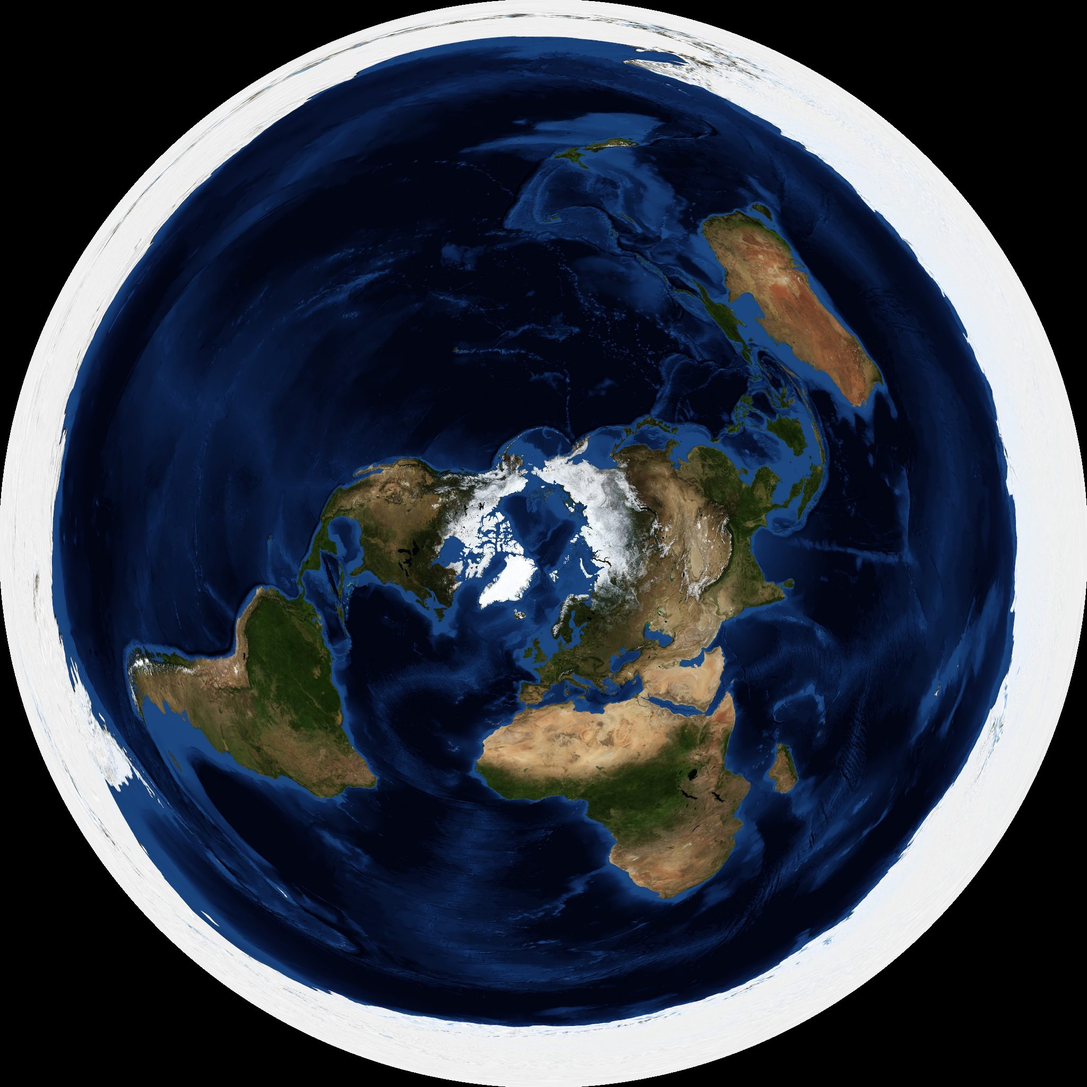
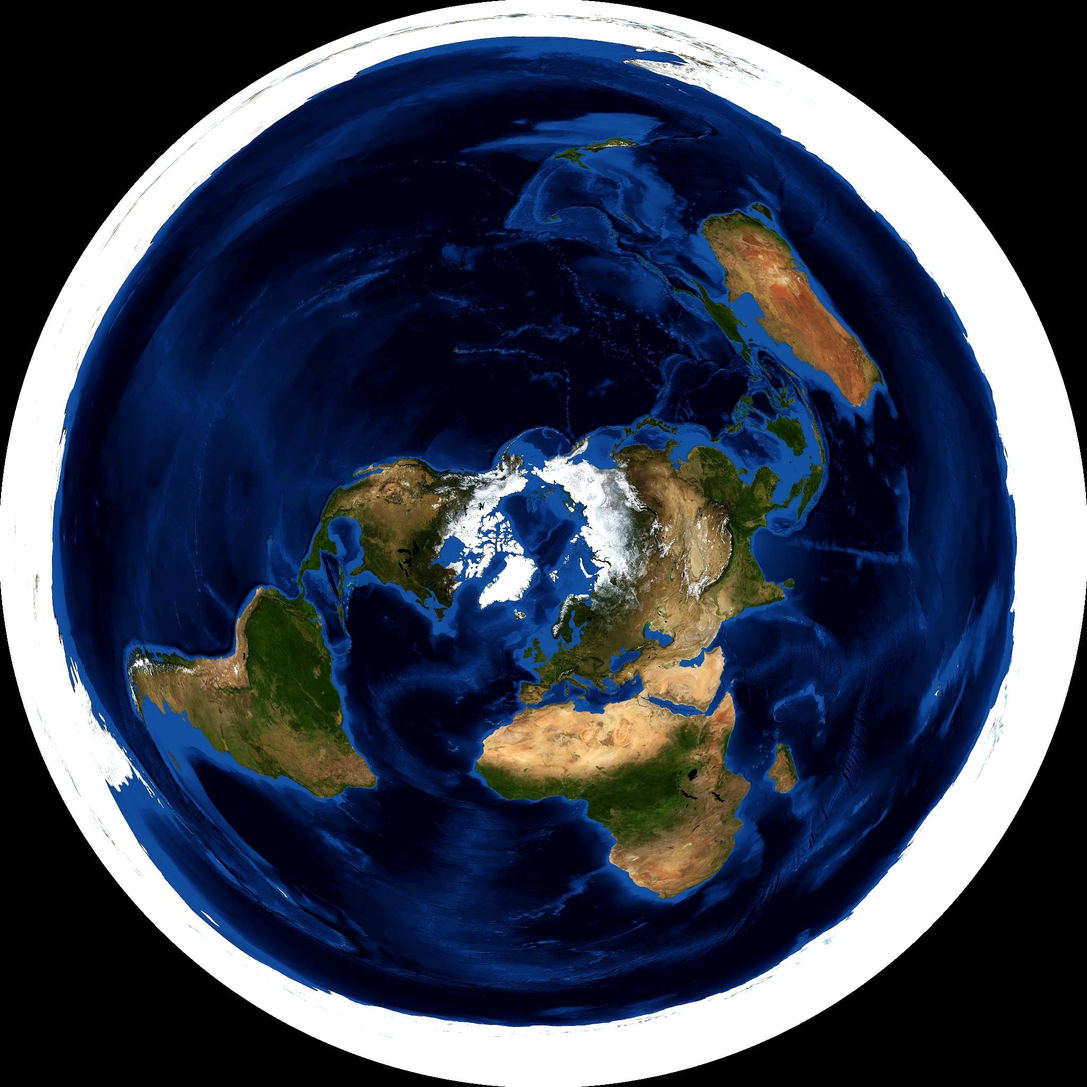
Horizonte livre, Terra mais nítida, ícones de avião e satélite, radar com reservas
Horizonte logo acima dos controles e árvores mais baixas; foto da Terra mais clara e nítida com noite por sombreamento (continentes continuam visíveis) e domo só na vista inclinada; ícones de avião e satélite, satélites e aviões elevados no disco; radar tenta adsb.fi, adsb.lol, airplanes.live e OpenSky, com proxy opcional (tools/proxy-avioes.js).

Claude-Session: https://claude.ai/code/session_01YPPPxVRs66xufPJ9dKZSic

diff --git a/index.html b/index.html
@@ -67,11 +67,12 @@ dt{color:var(--mute)}dd{margin:0;text-align:right;font-variant-numeric:tabular-n
 input[type=datetime-local]{font:16px Inter,sans-serif;width:100%;min-height:46px;background:#0f1d25;color:var(--ink);border:1px solid var(--line);border-radius:12px;padding:0 12px;color-scheme:dark}
 .btn{font:600 15px Inter,sans-serif;min-height:46px;border-radius:12px;border:1px solid var(--line);background:#12232c;color:var(--ink);padding:0 16px;cursor:pointer}
 .btn.p{background:var(--sun);color:#1b1404;border-color:var(--sun)}
-select,input[type=number],input[type=search]{font:16px Inter,sans-serif;width:100%;min-height:46px;background:#0f1d25;color:var(--ink);border:1px solid var(--line);border-radius:12px;padding:0 12px}
+select,input[type=number],input[type=search],input[type=url]{font:16px Inter,sans-serif;width:100%;min-height:46px;background:#0f1d25;color:var(--ink);border:1px solid var(--line);border-radius:12px;padding:0 12px}
 .two{display:grid;grid-template-columns:minmax(0,1fr) minmax(0,1fr);gap:8px}
 label.f{display:grid;gap:4px;font-size:13px;color:var(--mute)}
 input[type=range]{width:100%;accent-color:var(--model);height:32px}
 .small{font-size:13px;color:var(--mute);margin:0}
+.adv{display:grid;gap:8px;border:1px solid var(--line);border-radius:12px;padding:10px 12px}.adv summary{cursor:pointer;font-size:14px;min-height:28px}.adv[open]{gap:8px}.adv>*+*{margin-top:8px}
 .res{display:grid;gap:6px;max-height:38vh;overflow-y:auto}
 .ri{display:flex;justify-content:space-between;align-items:center;gap:12px;text-align:left;min-height:46px;padding:8px 12px;border-radius:10px;background:#0f1d25;border:1px solid var(--line);color:var(--ink);font:15px Inter,sans-serif;cursor:pointer}
 .ri b{font-weight:600}.ri span{color:var(--mute);font-size:13px;text-align:right}
@@ -150,6 +151,11 @@ input[type=range]{width:100%;accent-color:var(--model);height:32px}
     </div>
     <label class="f"><span>Altura do Sol e da Lua no modelo: <b id="hVal" style="color:var(--ink)">5.000 km</b></span><input type="range" id="height" min="500" max="20000" step="100" value="5000"></label>
     <p class="small">Os marcadores coral mostram onde um Sol e uma Lua locais, nessa altura acima do disco, apareceriam do seu ponto. Os dourados e brancos são o céu observado.</p>
+    <details class="adv"><summary>Radar de aviões (avançado)</summary>
+      <p class="small">O app tenta adsb.fi, adsb.lol, airplanes.live e OpenSky. Se todos bloquearem o navegador, cole aqui o endereço de um proxy próprio (veja tools/proxy-avioes.js no repositório).</p>
+      <input type="url" id="proxy" placeholder="https://seu-proxy.workers.dev" autocomplete="off" inputmode="url">
+      <p class="small" id="airMsg"></p>
+    </details>
     <button class="btn" id="sheetClose">Fechar</button>
   </div>
   <div class="welcome" id="welcome">
@@ -250,7 +256,7 @@ function camSensor(){const a=(sens.alpha+sens.cal)*D,b=sens.beta*D,g=sens.gamma*
  return{f:[-dz[0],-dz[1],-dz[2]],r:[c*dx[0]-s*dy[0],c*dx[1]-s*dy[1],c*dx[2]-s*dy[2]],u:[s*dx[0]+c*dy[0],s*dx[1]+c*dy[1],s*dx[2]+c*dy[2]]}}
 function updateCam(){const t=st.sensors&&sens.got?camSensor():camManual();
  if(st.sensors&&sens.got){const k=0.2,mix=(a,b)=>a.map((v,i)=>v+(b[i]-v)*k);let f=nrm(mix(cam.f,t.f)),r=mix(cam.r,t.r);r=nrm(r.map((v,i)=>v-dot(r,f)*f[i]));cam={f,r,u:cross(r,f)}}else cam=t;
- F=(Math.max(W,Hh)/2)/Math.tan(st.fov*D/2);PY=Hh/2+Hh*(Hh>W?0.27:0.16)}
+ F=(Math.max(W,Hh)/2)/Math.tan(st.fov*D/2);PY=Hh>W?Hh-Math.max(150,Hh*0.17):Hh*0.8}
 function proj(v){const z=dot(v,cam.f),x=dot(v,cam.r),y=dot(v,cam.u);return z>0.02?{ok:true,sx:W/2+F*x/z,sy:PY-F*y/z,x,y,z}:{ok:false,x,y,z}}
 const onScreen=p=>p.ok&&p.sx>-40&&p.sx<W+40&&p.sy>-40&&p.sy<Hh+40;
 // ---------- Cálculo dos objetos ----------
@@ -298,7 +304,7 @@ function drawArt(C,upE,night){if(!ART.list.length)return;const fade=0.24*clamp((
  ctx.restore();ctx.setTransform(dpr,0,0,dpr,0,0)}
 // ---------- Paisagem: colinas e árvores ----------
 const LANDN=1440,mkRng=seed=>{let s=seed;return()=>(s=(s*16807)%2147483647)/2147483647};
-const FARP=(()=>{const R=mkRng(98765),h=new Float32Array(LANDN),p=[0,1,2].map(()=>R()*6.3);for(let i=0;i<LANDN;i++){const a=i/LANDN*2*Math.PI;h[i]=Math.max(0.3,1.3+0.9*Math.sin(a*3+p[0])+0.55*Math.sin(a*7+p[1])+0.22*Math.sin(a*17+p[2]))}return h})();
+const FARP=(()=>{const R=mkRng(98765),h=new Float32Array(LANDN),p=[0,1,2].map(()=>R()*6.3);for(let i=0;i<LANDN;i++){const a=i/LANDN*2*Math.PI;h[i]=Math.max(0.2,0.7+0.45*Math.sin(a*3+p[0])+0.28*Math.sin(a*7+p[1])+0.12*Math.sin(a*17+p[2]))}return h})();
 const LANDP=(()=>{const R=mkRng(1234567),n=LANDN,h=new Float32Array(n),p=[R()*6.3,R()*6.3];
  for(let i=0;i<n;i++){const a=i/n*2*Math.PI;h[i]=Math.max(0,0.22+0.18*Math.sin(a*4+p[0])+0.1*Math.sin(a*11+p[1]))}
  const bump=(c,cy,r)=>{const w=Math.ceil(r*4);for(let k=-w;k<=w;k++){const dx=k/4;if(Math.abs(dx)>r)continue;const i=((Math.round(c)+k)%n+n)%n;h[i]=Math.max(h[i],cy+Math.sqrt(r*r-dx*dx))}};
@@ -306,7 +312,7 @@ const LANDP=(()=>{const R=mkRng(1234567),n=LANDN,h=new Float32Array(n),p=[R()*6.
  const pine=(c,ht,wd)=>{const w=Math.round(wd*4);for(let k=-w;k<=w;k++){const i=((c+k)%n+n)%n,x=Math.abs(k)/w;h[i]=Math.max(h[i],ht*Math.pow(1-x,1.1)*(1+0.1*Math.sin(k*2.3)))}};
  for(let g=0;g<11;g++){const cc=R()*n,span=(6+R()*30)*4,cnt=2+Math.round(span/12);for(let t=0;t<cnt;t++){const c=Math.round(cc+(R()*2-1)*span),ht=1.8+R()*3.4;if(R()<0.18)pine(c,ht*1.2,0.6+R()*0.6);else broad(c,ht,1+R()*1.6)}}
  for(let t=0;t<18;t++){const c=Math.round(R()*n);if(R()<0.6)broad(c,0.6+R()*1,0.6+R()*0.8);else broad(c,2+R()*2.5,1.2+R()*1.4)}
- const out=new Float32Array(n);for(let i=0;i<n;i++){let m=h[i];for(let k=-10;k<=10;k++){const v=h[((i+k)%n+n)%n]-2.4*Math.abs(k)/4;if(v>m)m=v}out[i]=m>0.6?m+(R()-0.5)*0.09:m}return out})();
+ const out=new Float32Array(n);for(let i=0;i<n;i++){let m=h[i];for(let k=-10;k<=10;k++){const v=h[((i+k)%n+n)%n]-2.4*Math.abs(k)/4;if(v>m)m=v}out[i]=(m>0.6?m+(R()-0.5)*0.09:m)*0.5}return out})();
 const toV=P=>{const a=[];for(let i=0;i<=LANDN;i++){const k=i%LANDN;a.push(enu(P[k],k*360/LANDN))}return a};
 const LANDV=toV(LANDP),FARV=toV(FARP);
 function drawLandscape(V,col){const step=8;ctx.fillStyle=col;ctx.beginPath();
@@ -474,19 +480,20 @@ function drawDisc(o){discInit();domeInit();if(dv.tiltT!=null){dv.tilt+=(dv.tiltT
  if(lift>0.05){ctx.fillStyle="#08141a";ctx.beginPath();ctx.ellipse(g.cx,g.cy+g.R*0.05*lift,g.R,g.R*dv.tilt,dv.rot*0,0,7);ctx.fill()}
  // oceano, terra, desertos e gelo
  const photo=dv.real&&ready(dv.imgDay);
- if(photo){dM(g);ctx.save();ctx.beginPath();ctx.arc(0,0,1,0,7);ctx.clip();ctx.imageSmoothingEnabled=true;ctx.drawImage(dv.imgDay,-1,-1,2,2);ctx.restore()}
+ if(photo){dM(g);ctx.save();ctx.beginPath();ctx.arc(0,0,1,0,7);ctx.clip();ctx.imageSmoothingEnabled=true;ctx.imageSmoothingQuality="high";ctx.drawImage(dv.imgDay,-1,-1,2,2);ctx.restore()}
  else{dM(g);const oc=ctx.createRadialGradient(0,0,0,0,0,1);oc.addColorStop(0,"#164f78");oc.addColorStop(1,"#0c3350");ctx.fillStyle=oc;ctx.beginPath();ctx.arc(0,0,1,0,7);ctx.fill();
  const COL=["rgba(150,200,240,.2)","#5aa865","#eef6f8","#cdb57e"],B=[[],[],[],[]],sz=0.9*2/dv.N;for(const p of dv.dots)B[p.t].push(p);
  B.forEach((arr,t)=>{ctx.fillStyle=COL[t];ctx.beginPath();const z=t?sz:sz*0.45;for(const p of arr)ctx.rect(p.u-z/2,p.v-z/2,z,z);ctx.fill()})}
  // noite por cima das cores
- if(dv.light){const dt=dv.img.data,mk=dv.mimg.data,dark=photo?228:170;for(let k=0;k<dv.OP.length;k++){const p=dv.OP[k],q=k*4;if(!p){dt[q+3]=0;mk[q+3]=0;continue}const a=altOf(p[0],p[1],sp),f=a>-0.83?0:Math.min(1,(-a+0.83)/12);dt[q]=3;dt[q+1]=8;dt[q+2]=22;dt[q+3]=f*dark;mk[q]=mk[q+1]=mk[q+2]=255;mk[q+3]=f*255}
-  dv.octx.putImageData(dv.img,0,0);dM(g);ctx.imageSmoothingEnabled=true;ctx.drawImage(dv.off,-1,-1,2,2);
+ if(dv.light){const dt=dv.img.data,mk=dv.mimg.data;for(let k=0;k<dv.OP.length;k++){const p=dv.OP[k],q=k*4;if(!p){dt[q+3]=0;mk[q+3]=0;continue}const a=altOf(p[0],p[1],sp),f=a>0.5?0:Math.min(1,(0.5-a)/10);
+   if(photo){dt[q]=255-f*190;dt[q+1]=255-f*175;dt[q+2]=255-f*140;dt[q+3]=255}else{dt[q]=3;dt[q+1]=8;dt[q+2]=22;dt[q+3]=f*170}mk[q]=mk[q+1]=mk[q+2]=255;mk[q+3]=f*255}
+  dv.octx.putImageData(dv.img,0,0);dM(g);ctx.save();ctx.beginPath();ctx.arc(0,0,1,0,7);ctx.clip();ctx.imageSmoothingEnabled=true;if(photo)ctx.globalCompositeOperation="multiply";ctx.drawImage(dv.off,-1,-1,2,2);ctx.restore();
   if(photo&&ready(dv.imgNight)){if(dv.fr++%3===0){dv.mctx2.putImageData(dv.mimg,0,0);const x=dv.nlx;x.globalCompositeOperation="source-over";x.clearRect(0,0,1024,1024);x.drawImage(dv.imgNight,0,0,1024,1024);x.globalCompositeOperation="destination-in";x.imageSmoothingEnabled=true;x.drawImage(dv.mask,0,0,1024,1024)}
-   dM(g);ctx.save();ctx.globalCompositeOperation="lighter";ctx.globalAlpha=0.9;ctx.drawImage(dv.nl,-1,-1,2,2);ctx.restore()}}
+   dM(g);ctx.save();ctx.globalCompositeOperation="lighter";ctx.globalAlpha=0.85;ctx.drawImage(dv.nl,-1,-1,2,2);ctx.restore()}}
  // borda de gelo
  dM(g);ctx.beginPath();ctx.arc(0,0,1,0,7);dS();ctx.strokeStyle="rgba(240,248,250,.95)";ctx.lineWidth=2.5;ctx.stroke();
- dCircle(g,66.56,0.8,"rgba(160,230,220,.35)",[3,5]);dCircle(g,23.44,1,"rgba(160,230,220,.75)",[5,4]);dCircle(g,0,1.2,"rgba(255,255,255,.7)");dCircle(g,-23.44,1,"rgba(160,230,220,.75)",[5,4]);
- if(dv.tilt>0.8&&dv.zoom<2.5){dLabel(g,23.44,"CÂNCER","#bff0e8");dLabel(g,0,"EQUADOR","#ffffff");dLabel(g,-23.44,"CAPRICÓRNIO","#bff0e8")}
+ const lk=photo?0.55:1;dCircle(g,66.56,0.7,`rgba(160,230,220,${0.3*lk})`,[3,5]);dCircle(g,23.44,0.9,`rgba(160,230,220,${0.7*lk})`,[5,4]);dCircle(g,0,1,`rgba(255,255,255,${0.65*lk})`);dCircle(g,-23.44,0.9,`rgba(160,230,220,${0.7*lk})`,[5,4]);
+ if(!photo&&dv.tilt>0.8&&dv.zoom<2.5){dLabel(g,23.44,"CÂNCER","#bff0e8");dLabel(g,0,"EQUADOR","#ffffff");dLabel(g,-23.44,"CAPRICÓRNIO","#bff0e8")}
  dCircle(g,sp.lat,1.2,"rgba(255,207,115,.6)",[1,4]);
  if(dv.light){dM(g);ctx.beginPath();let prev=null;for(let b=0;b<=360;b+=2){const[la,lo]=dest(sp.lat,sp.lon,90.83,b),q=toDisc(la,lo);if(!prev||Math.hypot(q[0]-prev[0],q[1]-prev[1])>0.25)ctx.moveTo(q[0],q[1]);else ctx.lineTo(q[0],q[1]);prev=q}dS();ctx.strokeStyle="rgba(255,226,170,.8)";ctx.lineWidth=1.1;ctx.stroke()}
  const[nx,ny]=DS(g,0,0);ctx.fillStyle="#fff";ctx.beginPath();ctx.arc(nx,ny,2,0,7);ctx.fill();text("N",nx+5,ny-4,"#fff",11,600);
@@ -497,7 +504,7 @@ function drawDisc(o){discInit();domeInit();if(dv.tiltT!=null){dv.tilt+=(dv.tiltT
  if(lift>0.05){const ryTop=Math.hypot(g.R*dv.tilt,g.R*dv.HD*lift);ctx.strokeStyle=`rgba(160,220,235,${0.3*lift})`;ctx.setLineDash([2,5]);ctx.lineWidth=1;ctx.beginPath();ctx.ellipse(g.cx,g.cy,g.R,ryTop,0,Math.PI,2*Math.PI);ctx.stroke();ctx.setLineDash([]);
   const dg=ctx.createLinearGradient(0,g.cy-ryTop,0,g.cy);dg.addColorStop(0,"rgba(120,180,230,.07)");dg.addColorStop(1,"rgba(120,180,230,0)");ctx.fillStyle=dg;ctx.beginPath();ctx.ellipse(g.cx,g.cy,g.R,ryTop,0,Math.PI,2*Math.PI);ctx.fill()}
  // estrelas e constelações no domo
- if(dv.dome&&(dv.stars||dv.cons)&&lift>0.12){const al=clamp((lift-0.12)*1.8,0,1);
+ if(dv.dome&&(dv.stars||dv.cons)&&lift>0.4){const al=clamp((lift-0.4)*2.6,0,1)*0.85;
   if(dv.cons){ctx.strokeStyle=`rgba(120,210,200,${0.4*al})`;ctx.lineWidth=0.8;ctx.beginPath();for(const c of dv.dome.L)for(const sg of c.segs){sg.forEach((d,k)=>{const[x,y]=domePt(g,d,g0);k?ctx.lineTo(x,y):ctx.moveTo(x,y)})}ctx.stroke();
    if(dv.zoom>=1.6){const used=[];ctx.font="400 9px Inter,sans-serif";for(const c of dv.dome.L){const[x,y]=domePt(g,c.lab,g0);if(x<0||x>W||y<0||y>Hh)continue;const w=ctx.measureText(c.name).width,bx=x-w/2;if(used.some(b=>bx<b[2]+4&&bx+w+4>b[0]&&y-9<b[3]&&y+4>b[1]))continue;used.push([bx,y-9,bx+w,y+2]);text(c.name,bx,y,`rgba(160,230,220,${0.55*al})`,9,400)}}}
   if(dv.stars){const zs=Math.min(1.8,Math.sqrt(dv.zoom));for(const d of dv.dome.S){const[x,y]=domePt(g,d,g0);if(x<-5||x>W+5||y<-5||y>Hh+5)continue;const r=Math.max(0.6,(2-0.35*d.m)*zs);ctx.globalAlpha=al*clamp((5-d.m)/2.5,0.35,1);ctx.fillStyle=d.c;ctx.beginPath();ctx.arc(x,y,r,0,7);ctx.fill();st.hits.push({x,y,kind:"star",i:d.i,m:d.m})}ctx.globalAlpha=1}}
@@ -543,28 +550,43 @@ function satUpdate(o){if(!SAT.list.length||typeof satellite==="undefined"||!(st.
 function drawSatsSky(o){if(!SAT.cache.length)return;const dark=o.sun.alt<-4;
  if(SAT.path){ctx.strokeStyle="rgba(180,220,255,.55)";ctx.setLineDash([2,4]);ctx.lineWidth=1;ctx.beginPath();let pen=false;for(const q of SAT.path){if(q.k<0||q.k>12||q.look.alt<0){pen=false;continue}const p=proj(q.look.v);if(!p.ok){pen=false;continue}pen?ctx.lineTo(p.sx,p.sy):ctx.moveTo(p.sx,p.sy);pen=true}ctx.stroke();ctx.setLineDash([])}
  for(const c of SAT.cache){if(c.look.alt<0)continue;const p=proj(c.look.v);if(!onScreen(p))continue;const vis=c.lit&&dark,r=c.s.big?2.6:c.s.g==="starlink"?1.1:1.6;
-  ctx.fillStyle=vis?"#f4fbff":"rgba(170,190,210,.55)";if(vis&&c.s.big)glow(p.sx,p.sy,r*5,"rgba(220,240,255,.35)");ctx.beginPath();ctx.arc(p.sx,p.sy,r,0,7);ctx.fill();
-  if(c.s.big||(st.sel&&st.sel.kind==="sat"&&st.sel.id===c.s.id))text(c.s.id===25544?"ISS":c.s.name.split(" (")[0],p.sx+r+5,p.sy+4,"#cfe8ff",10.5,500);st.hits.push({x:p.sx,y:p.sy,kind:"sat",id:c.s.id,m:c.s.big?-3:3})}}
+  if(vis&&c.s.big)glow(p.sx,p.sy,r*6,"rgba(220,240,255,.3)");if(c.s.g==="starlink"){ctx.fillStyle=vis?"#f4fbff":"rgba(170,190,210,.55)";ctx.beginPath();ctx.arc(p.sx,p.sy,r,0,7);ctx.fill()}else satIcon(p.sx,p.sy,vis?"#f4fbff":"#aab8c6",c.s.big?1:0.7,c.lit);
+  if(c.s.big||(st.sel&&st.sel.kind==="sat"&&st.sel.id===c.s.id))text(c.s.id===25544?"ISS":c.s.name.split(" (")[0],p.sx+12,p.sy+4,"#cfe8ff",10.5,500);st.hits.push({x:p.sx,y:p.sy,kind:"sat",id:c.s.id,m:c.s.big?-3:3})}}
 function drawSatsDisc(g){if(!SAT.cache.length)return;
- if(SAT.path){ctx.strokeStyle="rgba(180,220,255,.7)";ctx.lineWidth=1.2;ctx.setLineDash([3,3]);ctx.beginPath();let prev=null;for(const q of SAT.path){const d=toDisc(q.la,q.lo),[x,y]=DS(g,d[0],d[1]);if(prev&&Math.hypot(x-prev[0],y-prev[1])>g.R*0.6)ctx.moveTo(x,y);else if(!prev)ctx.moveTo(x,y);else ctx.lineTo(x,y);prev=[x,y]}ctx.stroke();ctx.setLineDash([])}
- for(const c of SAT.cache){const d=toDisc(c.la,c.lo),[x,y0]=DS(g,d[0],d[1]),y=y0-g.R*(c.h/RKM)*g.lf*1.6,r=c.s.big?3:c.s.g==="starlink"?1:1.6;ctx.fillStyle=c.lit?"#e9f6ff":"rgba(150,175,200,.7)";ctx.beginPath();ctx.arc(x,y,r,0,7);ctx.fill();
-  if(c.s.big)text(c.s.id===25544?"ISS":c.s.name.split(" (")[0],x+5,y+4,"#cfe8ff",10,500);st.hits.push({x,y,kind:"sat",id:c.s.id,m:c.s.big?-3:3})}}
+ if(SAT.path){ctx.strokeStyle="rgba(180,220,255,.7)";ctx.lineWidth=1.2;ctx.setLineDash([3,3]);ctx.beginPath();let prev=null;for(const q of SAT.path){const d=toDisc(q.la,q.lo),[x,y1]=DS(g,d[0],d[1]),y=y1-g.R*(st.H/RKM)*1.6*g.lf*(0.35+0.4*Math.min(1,q.h/2000));if(prev&&Math.hypot(x-prev[0],y-prev[1])>g.R*0.6)ctx.moveTo(x,y);else if(!prev)ctx.moveTo(x,y);else ctx.lineTo(x,y);prev=[x,y]}ctx.stroke();ctx.setLineDash([])}
+ for(const c of SAT.cache){const d=toDisc(c.la,c.lo),[x,y0]=DS(g,d[0],d[1]),hv=g.R*(st.H/RKM)*1.6*g.lf*(0.35+0.4*Math.min(1,c.h/2000)),y=y0-hv,r=c.s.big?3:c.s.g==="starlink"?1:1.6;
+  if(c.s.big&&g.lf>0.1){ctx.strokeStyle="rgba(200,225,255,.3)";ctx.setLineDash([1,3]);ctx.lineWidth=1;ctx.beginPath();ctx.moveTo(x,y0);ctx.lineTo(x,y);ctx.stroke();ctx.setLineDash([]);ctx.fillStyle="rgba(200,225,255,.6)";ctx.beginPath();ctx.arc(x,y0,1.5,0,7);ctx.fill()}
+  if(c.s.g==="starlink"){ctx.fillStyle=c.lit?"#e9f6ff":"rgba(150,175,200,.7)";ctx.beginPath();ctx.arc(x,y,r,0,7);ctx.fill()}else satIcon(x,y,c.lit?"#eef6ff":"#9fb0c2",c.s.big?0.9:0.6,c.lit);
+  if(c.s.big)text(c.s.id===25544?"ISS":c.s.name.split(" (")[0],x+11,y+4,"#cfe8ff",10,500);st.hits.push({x,y,kind:"sat",id:c.s.id,m:c.s.big?-3:3})}}
 const AIR={list:[],ts:0,busy:false,err:0,trail:{},src:""};
-async function airFetch(){if(AIR.busy||!st.L.air)return;AIR.busy=true;const la=st.obs.lat.toFixed(3),lo=st.obs.lon.toFixed(3);let ok=false;
- for(const[u,src]of[[`https://api.adsb.lol/v2/point/${la}/${lo}/250`,"adsb.lol"],[`https://api.airplanes.live/v2/point/${la}/${lo}/250`,"airplanes.live"]]){try{const r=await fetch(u);if(!r.ok)continue;const j=await r.json(),ac=j.ac||j.aircraft||[];
-  AIR.list=ac.filter(a=>a.lat!=null&&a.lon!=null).map(a=>({hex:a.hex,cs:(a.flight||"").trim(),reg:a.r||"",type:a.t||"",lat:+a.lat,lon:+a.lon,alt:a.alt_baro==="ground"?0:(+a.alt_baro||+a.alt_geom||0),gs:+a.gs||0,trk:+(a.track??a.true_heading??0),t0:Date.now()}));AIR.src=src;ok=true;break}catch(e){}}
- AIR.busy=false;AIR.ts=Date.now();if(!ok){if(++AIR.err===1)toast("Não foi possível obter os aviões agora. O serviço de radar pode estar fora do ar ou bloqueando o acesso.")}
- else{AIR.err=0;for(const a of AIR.list){const tr=AIR.trail[a.hex]||(AIR.trail[a.hex]=[]);tr.push([a.lat,a.lon]);if(tr.length>60)tr.shift()}if(AIR.first!==true){AIR.first=true;toast(`${AIR.list.length} aviões num raio de 460 km.`)}}}
+const readsb=(j,src)=>{const ac=j.ac||j.aircraft;if(!Array.isArray(ac))return null;return ac.filter(a=>a.lat!=null&&a.lon!=null).map(a=>({hex:a.hex,cs:(a.flight||"").trim(),reg:a.r||"",type:a.t||"",lat:+a.lat,lon:+a.lon,alt:a.alt_baro==="ground"?0:(+a.alt_baro||+a.alt_geom||0),gs:+a.gs||0,trk:+(a.track??a.true_heading??0),t0:Date.now()}))};
+const opensky=j=>Array.isArray(j.states)?j.states.filter(s=>s[5]!=null&&s[6]!=null&&!s[8]).map(s=>({hex:s[0],cs:(s[1]||"").trim(),reg:"",type:s[2]||"",lat:+s[6],lon:+s[5],alt:(+s[7]||+s[13]||0)/0.3048,gs:(+s[9]||0)*1.94384,trk:+s[10]||0,t0:Date.now()})):null;
+function airSources(){const la=st.obs.lat.toFixed(3),lo=st.obs.lon.toFixed(3),dl=3.5,dg=Math.min(20,3.5/Math.max(0.2,Math.cos(st.obs.lat*D))),L=[];
+ if(AIR.proxy)L.push([`${AIR.proxy}${AIR.proxy.includes("?")?"&":"?"}lat=${la}&lon=${lo}&dist=250`,"seu proxy",readsb]);
+ L.push([`https://opendata.adsb.fi/api/v3/lat/${la}/lon/${lo}/dist/250`,"adsb.fi",readsb],[`https://api.adsb.lol/v2/point/${la}/${lo}/250`,"adsb.lol",readsb],[`https://api.airplanes.live/v2/point/${la}/${lo}/250`,"airplanes.live",readsb],
+  [`https://opensky-network.org/api/states/all?lamin=${(+la-dl).toFixed(2)}&lamax=${(+la+dl).toFixed(2)}&lomin=${(+lo-dg).toFixed(2)}&lomax=${(+lo+dg).toFixed(2)}`,"OpenSky",opensky]);
+ if(AIR.good){const k=L.findIndex(x=>x[1]===AIR.good);if(k>0)L.unshift(L.splice(k,1)[0])}return L}
+try{AIR.proxy=localStorage.getItem("planetarium-proxy")||""}catch(e){AIR.proxy=""}
+async function airFetch(force){if(AIR.busy||!st.L.air)return;if(!force&&AIR.src==="OpenSky"&&Date.now()-AIR.ts<55000)return;AIR.busy=true;let ok=false;const fails=[];
+ for(const[u,src,parse]of airSources()){try{const ctl=new AbortController(),tm=setTimeout(()=>ctl.abort(),7000);const r=await fetch(u,{signal:ctl.signal});clearTimeout(tm);if(!r.ok){fails.push(`${src} (${r.status})`);continue}
+  const list=parse(await r.json(),src);if(!list){fails.push(`${src} (formato)`);continue}AIR.list=list;AIR.src=src;AIR.good=src;ok=true;break}catch(e){fails.push(`${src} (${e.name==="AbortError"?"tempo esgotado":"bloqueado"})`)}}
+ AIR.busy=false;AIR.ts=Date.now();
+ if(!ok){console.warn("Radar de aviões indisponível:",fails.join(", "));if(++AIR.err===1)toast("Nenhum radar de aviões respondeu ao navegador (bloqueio de acesso). Em Local e modelo dá para configurar um proxy próprio.")}
+ else{AIR.err=0;for(const a of AIR.list){const tr=AIR.trail[a.hex]||(AIR.trail[a.hex]=[]);tr.push([a.lat,a.lon]);if(tr.length>60)tr.shift()}if(AIR.first!==true){AIR.first=true;toast(`${AIR.list.length} aviões perto de você (fonte: ${AIR.src}).`)}}}
 setInterval(()=>{if(st.L.air&&!document.hidden)airFetch()},10000);
 function airNow(a){const dt=(Date.now()-a.t0)/36e5,km=a.gs*1.852*dt;if(km<0.05)return[a.lat,a.lon];return dest(a.lat,a.lon,km/111.2,a.trk)}
-function plane(x,y,ang,col,sel){ctx.save();ctx.translate(x,y);ctx.rotate(ang);ctx.fillStyle=col;ctx.beginPath();ctx.moveTo(6,0);ctx.lineTo(-4,-4);ctx.lineTo(-2,0);ctx.lineTo(-4,4);ctx.closePath();ctx.fill();if(sel){ctx.strokeStyle="#fff";ctx.lineWidth=1;ctx.stroke()}ctx.restore()}
+const PLANE=[[10,0],[8.4,-1.1],[2.5,-1.3],[-2,-9],[-4.2,-9],[-1.8,-1.3],[-6.5,-1.2],[-8.5,-4.2],[-9.8,-4.2],[-8.8,0]];
+function plane(x,y,ang,col,sel,k=1){ctx.save();ctx.translate(x,y);ctx.rotate(ang);ctx.scale(k,k);ctx.beginPath();PLANE.forEach(([a,b],i)=>i?ctx.lineTo(a,b):ctx.moveTo(a,b));for(let i=PLANE.length-2;i>0;i--)ctx.lineTo(PLANE[i][0],-PLANE[i][1]);ctx.closePath();
+ ctx.fillStyle=col;ctx.shadowColor="rgba(0,0,0,.6)";ctx.shadowBlur=3;ctx.fill();ctx.shadowBlur=0;ctx.strokeStyle=sel?"#fff":"rgba(0,0,0,.35)";ctx.lineWidth=sel?1.4/k:0.8/k;ctx.stroke();ctx.restore()}
+function satIcon(x,y,col,k=1,lit=true){ctx.save();ctx.translate(x,y);ctx.rotate(-0.5);ctx.scale(k,k);ctx.strokeStyle=col;ctx.lineWidth=0.9;ctx.beginPath();ctx.moveTo(-7,0);ctx.lineTo(7,0);ctx.stroke();
+ ctx.fillStyle=lit?"rgba(110,170,255,.95)":"rgba(90,110,140,.8)";ctx.fillRect(-11,-2.6,5.2,5.2);ctx.fillRect(5.8,-2.6,5.2,5.2);ctx.fillStyle=col;ctx.fillRect(-2.6,-2.6,5.2,5.2);ctx.restore()}
 function drawAirSky(){if(!st.L.air||!AIR.list.length)return;for(const a of AIR.list){const[la,lo]=airNow(a),h=a.alt*0.0003048,L=lookFrom(la,lo,h);if(L.alt<0)continue;const p=proj(L.v);if(!onScreen(p))continue;
   const[la2,lo2]=dest(la,lo,0.02,a.trk),q=proj(lookFrom(la2,lo2,h).v),ang=q.ok?Math.atan2(q.sy-p.sy,q.sx-p.sx):0,sel=st.sel&&st.sel.kind==="air"&&st.sel.id===a.hex;
-  plane(p.sx,p.sy,ang,"#ffb86b",sel);if(sel||L.alt>8)text(a.cs||a.reg||a.hex,p.sx+8,p.sy+4,"#ffd2a1",10,500);st.hits.push({x:p.sx,y:p.sy,kind:"air",id:a.hex,m:1})}}
+  plane(p.sx,p.sy,ang,"#ffc178",sel,1.1);if(sel||L.alt>6)text(a.cs||a.reg||a.hex,p.sx+12,p.sy+4,"#ffd2a1",10,500);st.hits.push({x:p.sx,y:p.sy,kind:"air",id:a.hex,m:1})}}
 function drawAirDisc(g){if(!st.L.air||!AIR.list.length)return;const sel=st.sel&&st.sel.kind==="air"?st.sel.id:null;
  if(sel&&AIR.trail[sel]){ctx.strokeStyle="rgba(255,184,107,.8)";ctx.lineWidth=1.2;ctx.beginPath();AIR.trail[sel].forEach(([la,lo],k)=>{const d=toDisc(la,lo),[x,y]=DS(g,d[0],d[1]);k?ctx.lineTo(x,y):ctx.moveTo(x,y)});ctx.stroke()}
- for(const a of AIR.list){const[la,lo]=airNow(a),d=toDisc(la,lo),[x,y]=DS(g,d[0],d[1]);if(x<-10||x>W+10||y<-10||y>Hh+10)continue;const[la2,lo2]=dest(la,lo,0.3,a.trk),d2=toDisc(la2,lo2),[x2,y2]=DS(g,d2[0],d2[1]);
-  plane(x,y,Math.atan2(y2-y,x2-x),"#ffb86b",a.hex===sel);if(a.hex===sel||dv.zoom>3)text(a.cs||a.reg||a.hex,x+7,y+4,"#ffd2a1",9.5,500);st.hits.push({x,y,kind:"air",id:a.hex,m:2})}}
+ for(const a of AIR.list){const[la,lo]=airNow(a),d=toDisc(la,lo),[x,yg]=DS(g,d[0],d[1]),y=yg-g.R*(st.H/RKM)*1.6*g.lf*0.12*Math.min(1,a.alt/35000+0.2);if(g.lf>0.1){ctx.fillStyle="rgba(0,0,0,.35)";ctx.beginPath();ctx.ellipse(x,yg,3,3*dv.tilt,0,0,7);ctx.fill()}if(x<-10||x>W+10||y<-10||y>Hh+10)continue;const[la2,lo2]=dest(la,lo,0.3,a.trk),d2=toDisc(la2,lo2),[x2,y2]=DS(g,d2[0],d2[1]);
+  plane(x,y,Math.atan2(y2-yg,x2-x),"#ffc178",a.hex===sel,Math.min(1.3,0.75+dv.zoom*0.1));if(a.hex===sel||dv.zoom>3)text(a.cs||a.reg||a.hex,x+7,y+4,"#ffd2a1",9.5,500);st.hits.push({x,y,kind:"air",id:a.hex,m:2})}}
 function liveInfo(o,s){if(s.kind==="sat"){const c=SAT.cache.find(c=>c.s.id===s.id);if(!c)return null;const L=c.look;
   return{h:c.s.name,rows:[["Número NORAD",String(c.s.id)],["Altitude",`${Math.round(c.h).toLocaleString("pt-BR")} km`],["Velocidade",`${Math.round(c.v*3600).toLocaleString("pt-BR")} km/h`],["Ponto abaixo dele",`${latT(c.la)} · ${lonT(c.lo)}`],
    ["Do seu local",L.alt>0?`${nf(L.alt)}° de altura · ${Math.round(L.az)}° ${dirT(L.az)}`:"abaixo do horizonte"],["Distância",`${Math.round(L.dist).toLocaleString("pt-BR")} km`],["Iluminado pelo Sol",c.lit?"sim":"não (na sombra)"]],
@@ -650,6 +672,7 @@ function search(q){const seq=++qSeq,f=fold(q.trim());if(f.length<2){suggest();re
 function suggest(){renderRes(CITIES.map(c=>({n:c[0],sub:"",label:c[0],lat:c[1],lon:c[2]})),"Sugestões")}
 // ---------- Controles ----------
 function syncLoc(){$("lat").value=st.obs.lat.toFixed(4);$("lon").value=st.obs.lon.toFixed(4)}
+$("proxy").value=AIR.proxy;$("proxy").onchange=e=>{const v=e.target.value.trim();if(v&&!/^https:\/\//.test(v)){$("airMsg").textContent="O endereço precisa começar com https://";return}AIR.proxy=v;try{localStorage.setItem("planetarium-proxy",v)}catch(x){}$("airMsg").textContent=v?"Proxy salvo. Ligue os Aviões para testar.":"Proxy removido.";AIR.good=null;if(st.L.air){AIR.first=false;airFetch(true)}};
 $("q").oninput=e=>{clearTimeout(qT);qT=setTimeout(()=>search(e.target.value),280)};
 const manualLoc=()=>{const la=parseFloat($("lat").value),lo=parseFloat($("lon").value);if(isFinite(la)&&isFinite(lo)&&Math.abs(la)<=90&&Math.abs(lo)<=180){st.obs={name:"Ponto escolhido",lat:la,lon:lo};setHome();placeName(la,lo,"Ponto escolhido").then(n=>{if(st.obs.lat===la&&st.obs.lon===lo){st.obs.name=n;setHome()}})}};
 $("lat").onchange=manualLoc;$("lon").onchange=manualLoc;
@@ -664,7 +687,7 @@ $("bBack").onclick=()=>{st.t-=36e5};$("bFwd").onclick=()=>{st.t+=36e5};$("bNow")
 $("bPlay").onclick=()=>{st.play=!st.play};
 const tog=(id,k)=>{$(id).onclick=()=>{st.L[k]=!st.L[k];$(id).setAttribute("aria-pressed",st.L[k])}};tog("lObs","obs");tog("lModel","model");tog("lLines","lines");tog("lGrid","grid");tog("lArt","art");tog("lLand","land");tog("lSat","sat");tog("lStarlink","starlink");tog("lAir","air");
 $("lSat").addEventListener("click",()=>{if(st.L.sat){loadTLE("stations").then(()=>loadTLE("visual"))}});$("lStarlink").addEventListener("click",()=>{if(st.L.starlink){toast("Carregando os satélites Starlink…");loadTLE("starlink")}});
-$("lAir").addEventListener("click",()=>{if(st.L.air){AIR.err=0;AIR.first=false;airFetch()}else AIR.list=[]});
+$("lAir").addEventListener("click",()=>{if(st.L.air){AIR.err=0;AIR.first=false;airFetch(true)}else AIR.list=[]});
 setTimeout(()=>{if(st.L.sat)loadTLE("stations").then(()=>loadTLE("visual"))},1500);
 $("bSens").onclick=()=>{if(st.sensors){st.sensors=false;sens.got=false;const a=Math.atan2(cam.f[0],cam.f[1]);st.yaw=a;st.pitch=Math.asin(clamp(cam.f[2],-1,1));toast("Sensores desligados: arraste para navegar livremente.")}else{sens.off=null;sens.samp=[];enableSensors()}};
 $("bRecal").onclick=()=>{recalNorth();panel(null)};
@@ -681,7 +704,7 @@ $("mini").onclick=()=>setMode(st.mode==="sky"?"disc":"sky");
 $("dTop").onclick=()=>{dv.tiltT=1};$("dIncl").onclick=()=>{dv.tiltT=0.45};$("dReset").onclick=()=>{dv.tiltT=0.5;dv.rot=0;dv.zoom=1;dv.px=0;dv.py=0};
 const dtog=(id,k)=>{$(id).onclick=()=>{dv[k]=!dv[k];$(id).setAttribute("aria-pressed",dv[k])}};dtog("dStars","stars");dtog("dCons","cons");
 dtog("dLight","light");dtog("dReal","real");
-const begin=()=>{$("welcome").hidden=true;const o=compute();if(o.sun.alt>0){st.yaw=o.sun.az*D;st.pitch=clamp(o.sun.alt-20,0,50)*D}else{st.yaw=(st.obs.lat<0?180:0)*D;st.pitch=12*D}};
+const begin=()=>{$("welcome").hidden=true;const o=compute();if(o.sun.alt>0){st.yaw=o.sun.az*D;st.pitch=clamp(o.sun.alt-20,0,50)*D}else{st.yaw=(st.obs.lat<0?180:0)*D;st.pitch=2*D}};
 $("start").onclick=()=>{begin();enableSensors();gps()};$("startManual").onclick=()=>{begin();gps(true);toast("Arraste para olhar em volta. Use dois dedos para aproximar.")};
 // arrastar, aproximar e tocar
 const pts=new Map();let gest=null,holdT=null;const app=$("app");

diff --git a/tools/proxy-avioes.js b/tools/proxy-avioes.js
@@ -1,0 +1,25 @@
+// Proxy opcional para o radar de aviões do Planetarium (Cloudflare Workers, plano gratuito).
+// Uso: crie um Worker em dash.cloudflare.com, cole este código, publique e cole o endereço
+// (https://<nome>.<conta>.workers.dev) no app em Local e modelo > Radar de aviões.
+export default {
+  async fetch(req) {
+    const cors = { "access-control-allow-origin": "*", "content-type": "application/json", "cache-control": "max-age=5" };
+    const u = new URL(req.url);
+    const lat = Number(u.searchParams.get("lat")), lon = Number(u.searchParams.get("lon"));
+    const dist = Math.min(250, Math.max(1, Number(u.searchParams.get("dist")) || 250));
+    if (!Number.isFinite(lat) || !Number.isFinite(lon) || Math.abs(lat) > 90 || Math.abs(lon) > 180)
+      return new Response('{"erro":"lat/lon inválidos"}', { status: 400, headers: cors });
+    const fontes = [
+      `https://opendata.adsb.fi/api/v3/lat/${lat}/lon/${lon}/dist/${dist}`,
+      `https://api.adsb.lol/v2/point/${lat}/${lon}/${dist}`,
+      `https://api.airplanes.live/v2/point/${lat}/${lon}/${dist}`,
+    ];
+    for (const f of fontes) {
+      try {
+        const r = await fetch(f, { headers: { "user-agent": "Planetarium (proxy pessoal)" } });
+        if (r.ok) return new Response(await r.text(), { headers: cors });
+      } catch (e) {}
+    }
+    return new Response('{"ac":[]}', { status: 502, headers: cors });
+  },
+};

diff --git a/sw.js b/sw.js
@@ -1,4 +1,4 @@
-const CACHE = "planetarium-v5";
+const CACHE = "planetarium-v6";
 const CORE = ["./", "index.html", "manifest.webmanifest", "icon-192.png", "icon-512.png", "sky.json", "art.json", "cidades-br.json", "terra/dia.jpg", "terra/noite.jpg", "lib/satellite.min.js"];
 self.addEventListener("install", e => { e.waitUntil(caches.open(CACHE).then(c => c.addAll(CORE))); self.skipWaiting(); });
 self.addEventListener("activate", e => { e.waitUntil(caches.keys().then(ks => Promise.all(ks.filter(k => k !== CACHE).map(k => caches.delete(k))))); self.clients.claim(); });

diff --git a/README.md b/README.md
@@ -10,7 +10,7 @@ Nas duas visões aparecem juntos o **céu observado** (posições calculadas por
 ## Satélites e aviões
 
 - **Satélites:** órbitas do CelesTrak (estações espaciais, os mais brilhantes e, opcionalmente, Starlink), calculadas no próprio aparelho com SGP4. O app busca os dados direto no CelesTrak (ou em `dados/tle-<grupo>.txt`, se existir no site).
-- **Aviões:** posições ao vivo de radar ADS-B num raio de cerca de 460 km do observador, via adsb.lol (com airplanes.live como reserva), atualizadas a cada 10 segundos.
+- **Aviões:** posições ao vivo de radar ADS-B num raio de cerca de 460 km do observador, tentando adsb.fi, adsb.lol, airplanes.live e OpenSky, nesta ordem. Se todos bloquearem o acesso pelo navegador, publique `tools/proxy-avioes.js` como Cloudflare Worker (gratuito) e cole o endereço no app em Local e modelo > Radar de aviões.
 
 ## Local
 
@@ -31,7 +31,7 @@ No celular, use "Adicionar à tela inicial" para abrir como app (PWA, funciona o
 - Estrelas, constelações, Via Láctea e elementos orbitais: [d3-celestial](https://github.com/ofrohn/d3-celestial) de Olaf Frohn (licença BSD-3), com base no catálogo Hipparcos e nos elementos keplerianos aproximados do JPL.
 - Foto da Terra e luzes noturnas: NASA Blue Marble e Black Marble (domínio público), reprojetadas para o disco (`terra/`). Arquivos de origem obtidos do repositório [three-globe](https://github.com/vasturiano/three-globe).
 - Cálculo de órbitas: [satellite.js](https://github.com/shashwatak/satellite-js) (MIT), em `lib/`. Dados orbitais: [CelesTrak](https://celestrak.org).
-- Aviões: [adsb.lol](https://adsb.lol) e [airplanes.live](https://airplanes.live).
+- Aviões: [adsb.fi](https://adsb.fi), [adsb.lol](https://adsb.lol), [airplanes.live](https://airplanes.live) e [OpenSky Network](https://opensky-network.org).
 - Desenhos das constelações: ilustrações de Johan Meuris, do projeto [Stellarium sky cultures](https://github.com/Stellarium/stellarium-skycultures) (cultura ocidental), sob a [Free Art License](https://artlibre.org/licence/lal/en/). Os dados de âncoras são CC BY-SA.
 - Municípios do Brasil: [kelvins/municipios-brasileiros](https://github.com/kelvins/municipios-brasileiros) (MIT).
 - Sol: algoritmo da NOAA. Lua: método simplificado de Paul Schlyter.
